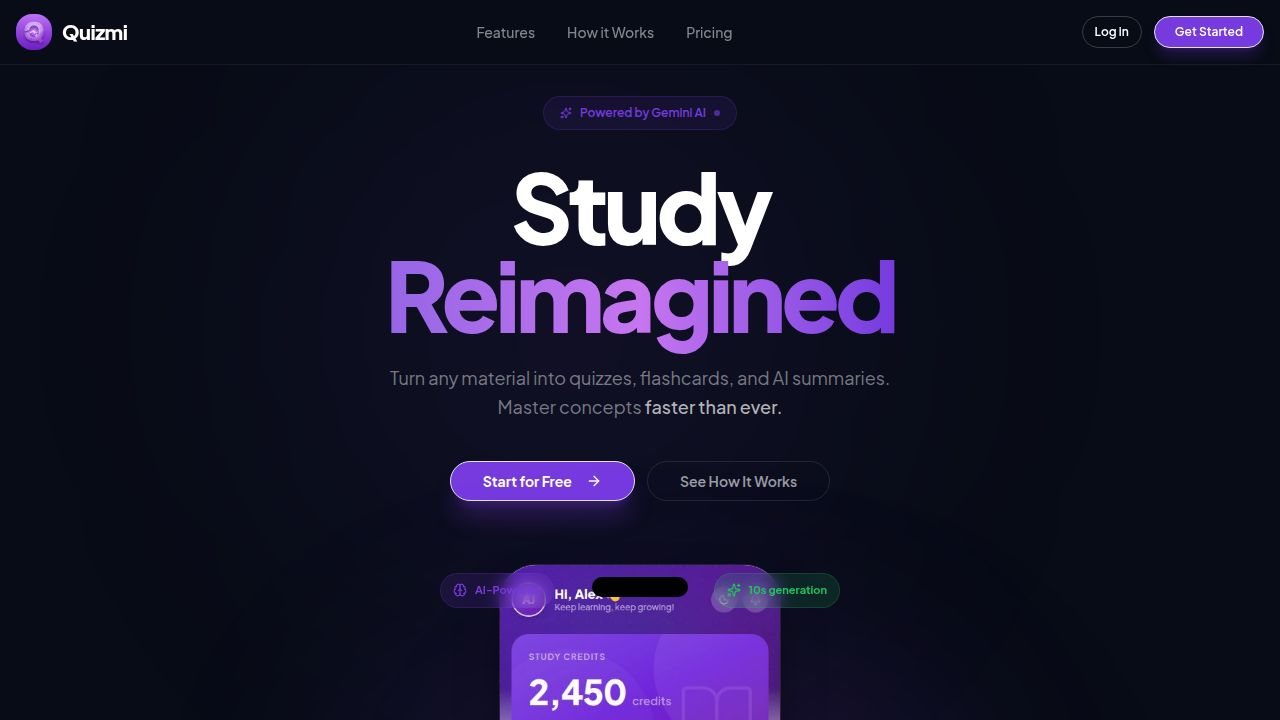
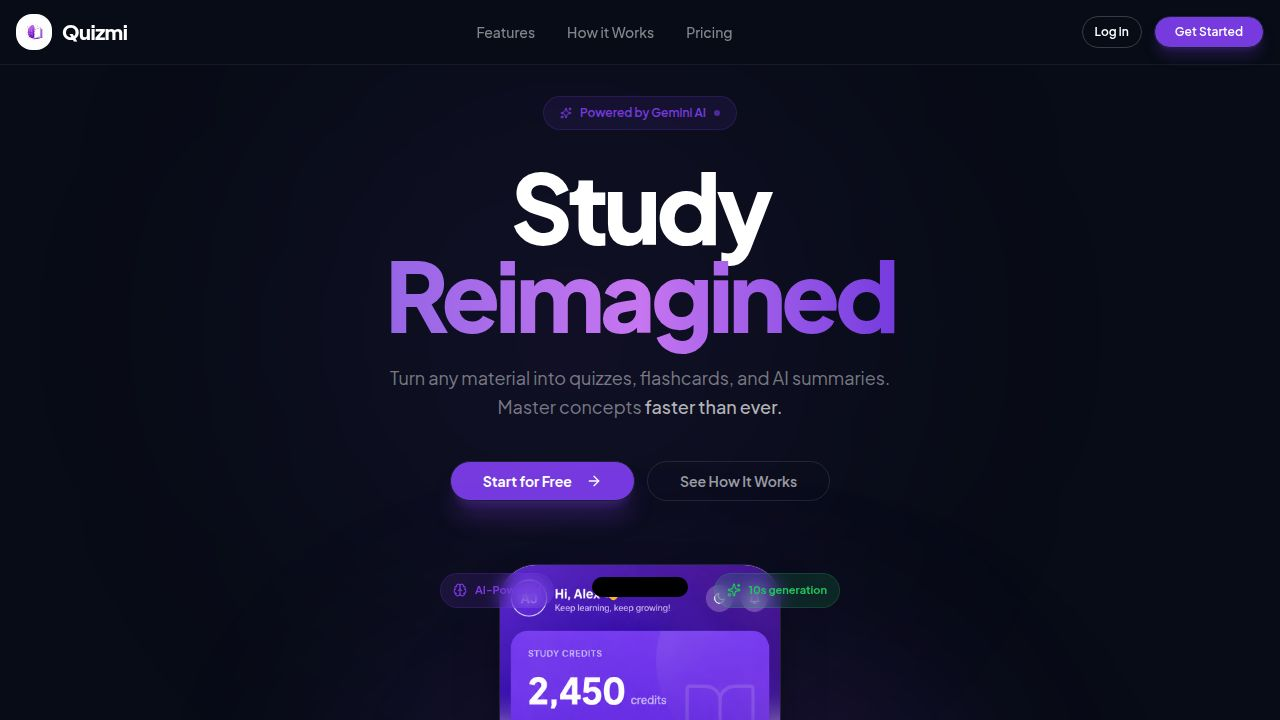
Make the login page the first page and remove all demo content
Remove the demo page, clear the database, and redirect unauthenticated users to the login page.

Replit-Commit-Author: Agent
Replit-Commit-Session-Id: 3a524294-94c1-41d7-86e9-24a26c61beb2
Replit-Commit-Checkpoint-Type: full_checkpoint
Replit-Commit-Event-Id: fa0ed092-923a-40a2-94ac-74ecf8574a4d
Replit-Commit-Screenshot-Url: https://storage.googleapis.com/screenshot-production-us-central1/708c8ff0-bb49-4028-bbda-1c60b771a825/3a524294-94c1-41d7-86e9-24a26c61beb2/QLQ7eOb
Replit-Helium-Checkpoint-Created: true

Changed region(s): [[0.375, 0.7639, 0.625, 1.0], [0.0, 0.0, 0.0625, 0.0917]]

diff --git a/artifacts/questly/src/components/home/TestimonialsSection.tsx b/artifacts/questly/src/components/home/TestimonialsSection.tsx
@@ -1,47 +1,3 @@
-import { motion } from "framer-motion";
-
-const stats = [
-  { value: "10s", label: "Quiz generated from notes", icon: "⚡" },
-  { value: "AI", label: "Powered by Gemini AI", icon: "🤖" },
-  { value: "∞", label: "Study possibilities", icon: "📚" },
-];
-
 export default function TestimonialsSection() {
-  return (
-    <section className="py-20 relative overflow-hidden">
-      <div className="absolute top-0 left-1/2 -translate-x-1/2 w-[600px] h-[300px] bg-primary/5 rounded-full blur-[120px] pointer-events-none" />
-      <div className="container mx-auto px-4">
-        <motion.div
-          initial={{ opacity: 0, y: 20 }}
-          whileInView={{ opacity: 1, y: 0 }}
-          viewport={{ once: true }}
-          className="text-center mb-12"
-        >
-          <span className="text-xs font-semibold uppercase tracking-[0.2em] text-primary">Why Quizmi</span>
-          <h2 className="text-3xl md:text-5xl font-bold text-white mt-4 tracking-tight">
-            Built for
-            <br />
-            <span className="text-white/40">serious learners</span>
-          </h2>
-        </motion.div>
-
-        <div className="grid md:grid-cols-3 gap-5 max-w-3xl mx-auto">
-          {stats.map((s, i) => (
-            <motion.div
-              key={s.label}
-              initial={{ opacity: 0, y: 30 }}
-              whileInView={{ opacity: 1, y: 0 }}
-              viewport={{ once: true }}
-              transition={{ delay: i * 0.1 }}
-              className="rounded-3xl border border-white/[0.06] p-8 text-center hover:border-primary/20 transition-colors"
-            >
-              <div className="text-4xl mb-3">{s.icon}</div>
-              <div className="text-4xl font-black text-primary mb-2">{s.value}</div>
-              <p className="text-sm text-white/50 leading-relaxed">{s.label}</p>
-            </motion.div>
-          ))}
-        </div>
-      </div>
-    </section>
-  );
+  return null;
 }

diff --git a/artifacts/questly/src/components/home/StatsBar.tsx b/artifacts/questly/src/components/home/StatsBar.tsx
@@ -1,37 +1,3 @@
-import { motion } from "framer-motion";
-import { Users, Trophy, Star, TrendingUp } from "lucide-react";
-
-const stats = [
-  { value: "250K+", label: "Active Students", icon: Users },
-  { value: "1.2M", label: "Quizzes Created", icon: Trophy },
-  { value: "4.8★", label: "App Rating", icon: Star },
-  { value: "98%", label: "Pass Rate Boost", icon: TrendingUp },
-];
-
 export default function StatsBar() {
-  return (
-    <div className="relative py-16 border-y border-white/[0.05]">
-      <div className="absolute inset-0 bg-gradient-to-r from-transparent via-primary/5 to-transparent pointer-events-none" />
-      <div className="container mx-auto px-4">
-        <div className="grid grid-cols-2 md:grid-cols-4 gap-8 md:gap-0">
-          {stats.map((stat, i) => (
-            <motion.div
-              key={stat.label}
-              initial={{ opacity: 0, y: 20 }}
-              whileInView={{ opacity: 1, y: 0 }}
-              viewport={{ once: true }}
-              transition={{ delay: i * 0.1 }}
-              className={`text-center flex flex-col items-center gap-2 ${i < 3 ? "md:border-r md:border-white/[0.06]" : ""}`}
-            >
-              <div className="w-9 h-9 rounded-xl bg-primary/10 border border-primary/15 flex items-center justify-center">
-                <stat.icon className="w-4 h-4 text-primary" />
-              </div>
-              <p className="text-3xl md:text-4xl font-black text-white tracking-tight">{stat.value}</p>
-              <p className="text-xs text-white/30 font-medium uppercase tracking-wider">{stat.label}</p>
-            </motion.div>
-          ))}
-        </div>
-      </div>
-    </div>
-  );
+  return null;
 }

diff --git a/artifacts/questly/src/App.tsx b/artifacts/questly/src/App.tsx
@@ -141,7 +141,7 @@ function HomeRedirect() {
         <Redirect to="/dashboard" />
       </Show>
       <Show when="signed-out">
-        <HomePage />
+        <Redirect to="/sign-in" />
       </Show>
     </>
   );